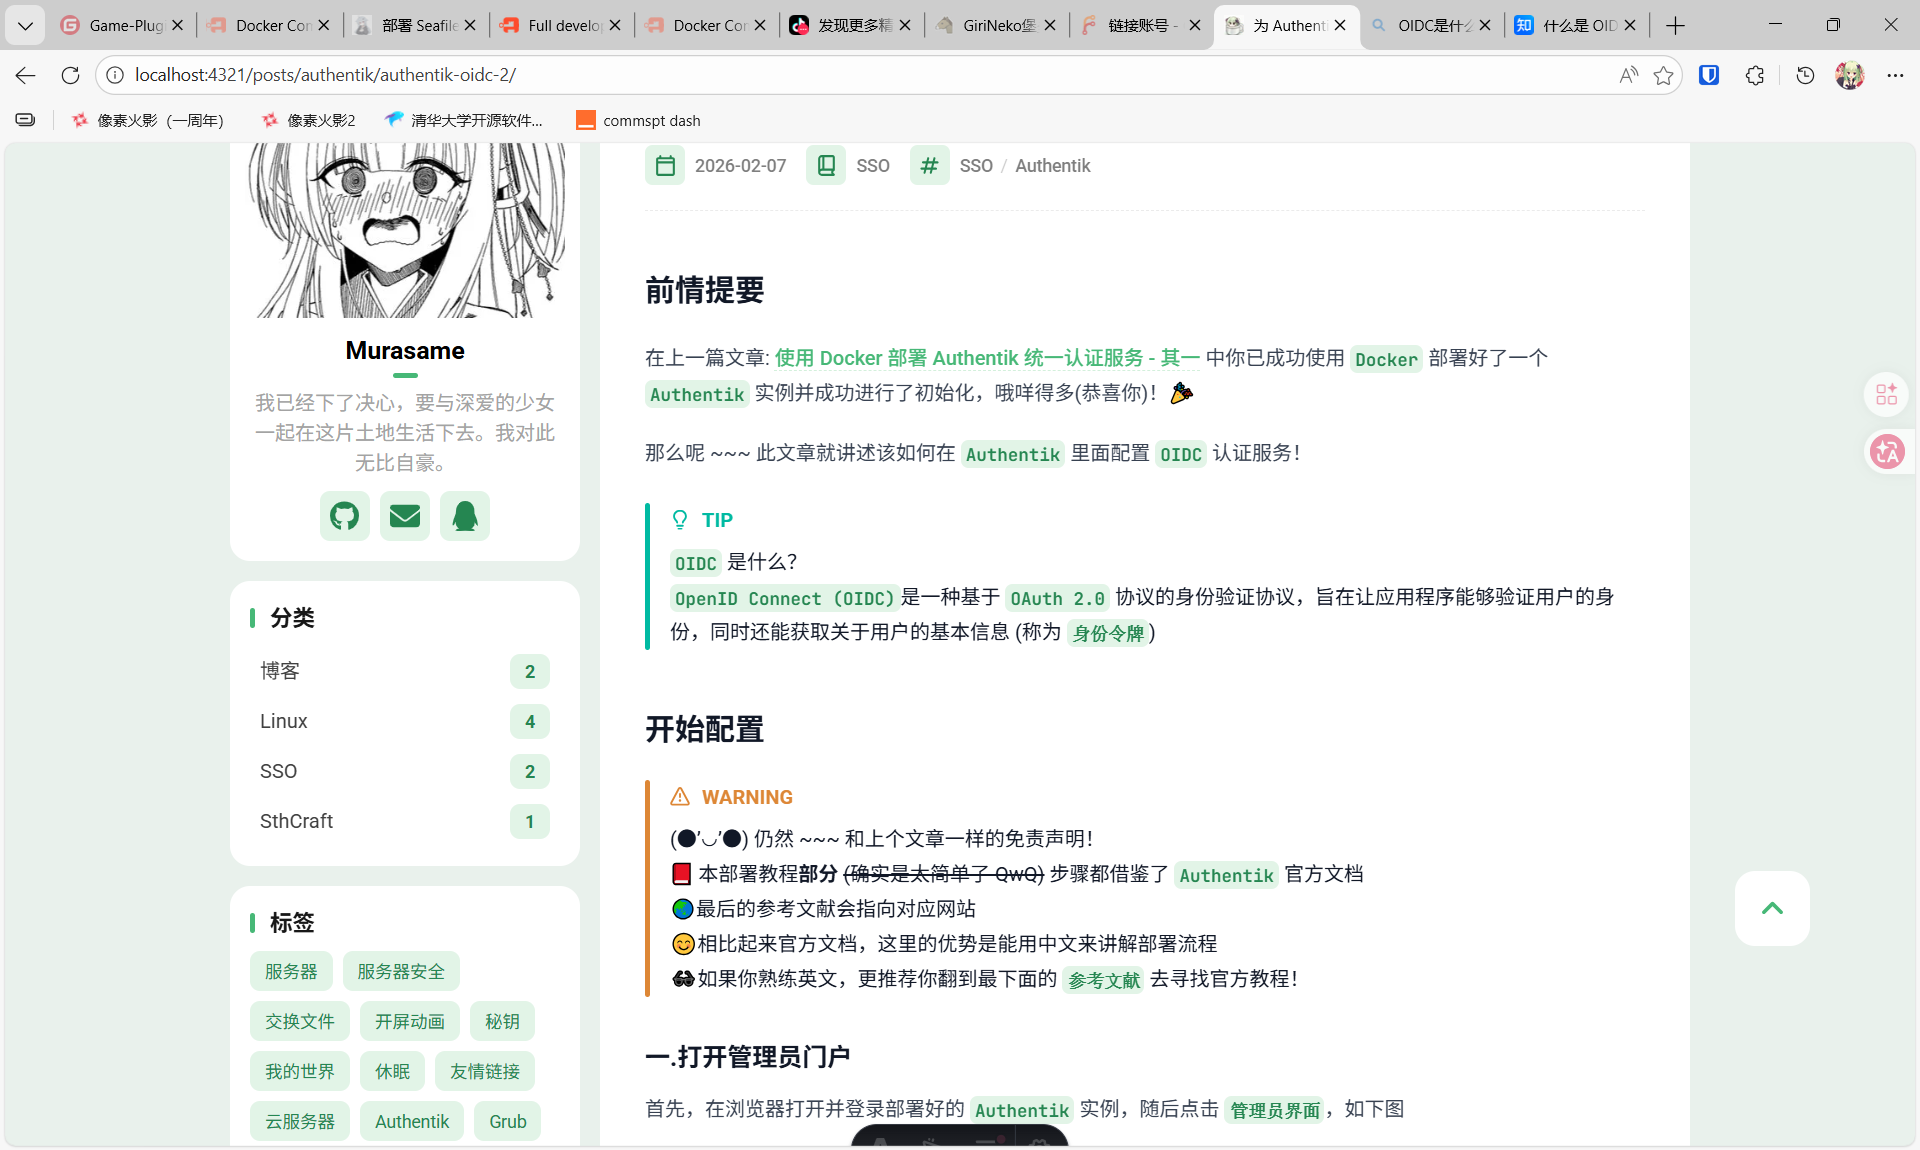
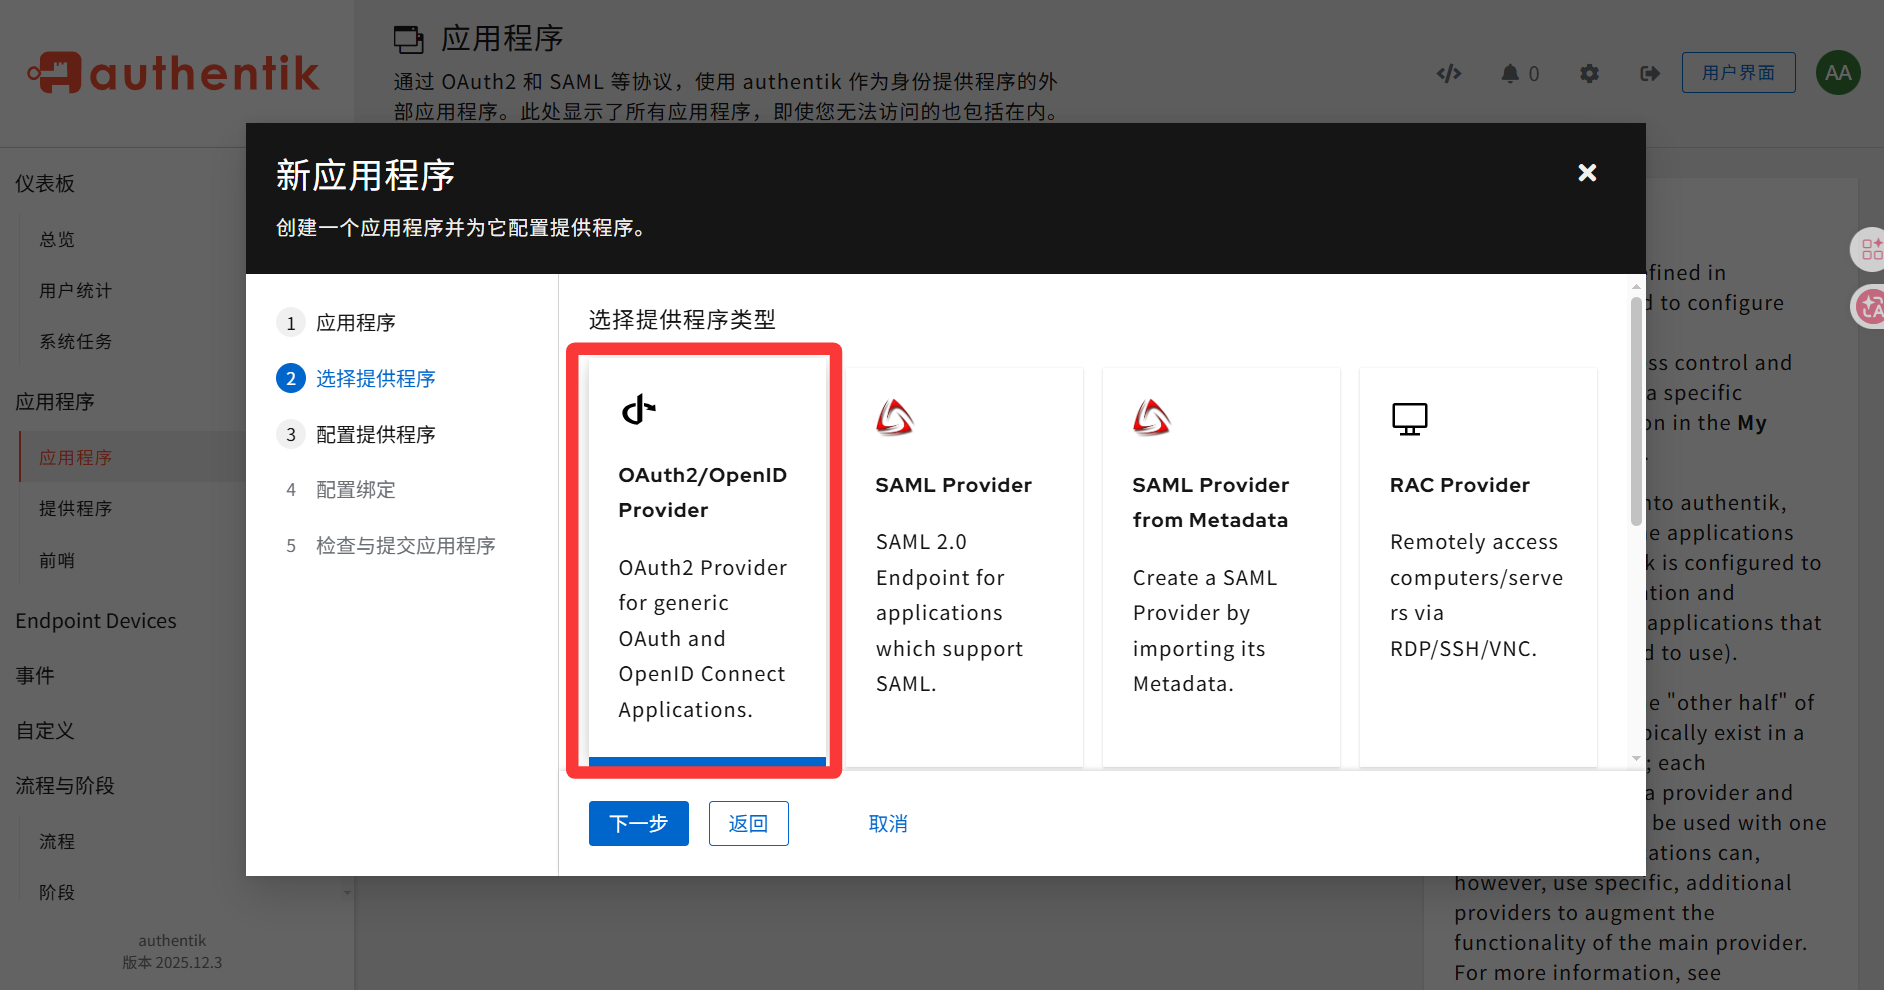
LDAP

diff --git a/src/content/posts/Authentik/Authentik-LDAP-3.md b/src/content/posts/Authentik/Authentik-LDAP-3.md
@@ -1,0 +1,168 @@
+---
+title: 为 Authentik 配置 OIDC 认证服务 - 其三
+published: 2026-02-07
+description: ''
+image: ''
+tags: [SSO, Authentik]
+category: 'SSO'
+draft: false 
+lang: 'zh_CN'
+---
+
+## 前情提要
+除了 `OIDC` 以外，也有其他服务会使用上 `LDAP` 这个服务 (比如 `Jellyfin`,`LDAP`)
+`Jellyfin` 的 `OIDC` 插件只有**官方客户端和网页**才能正常登录，若使用没有适配的第三方客户端会大事不妙😰
+
+因此，此文章就讲述该如何在 `Authentik` 里面配置 `LDAP` 认证服务！
+
+### 系列总览
+- 其一 - 使用 `Docker` 部署 `Authentik` 统一认证服务 - [点我这里跳转](/posts/authentik/authentik-docker-setup-1/)
+- 其二 - 为 `Authentik` 配置 `OIDC` 认证服务 - [点我这里跳转](/posts/authentik/authentik-oidc-2/)
+- 其三 - 为 `Authentik` 配置 `OIDC` 认证服务 - [点我这里跳转](/posts/authentik/authentik-ldap-3/)
+
+> [!TIP]
+> `LDAP` 是什么？   
+> `LDAP`（轻量级目录访问协议）是一种用于访问和管理目录服务的协议。   
+> 主要提供一种集中式的方式来存储和管理用户、设备、组织等信息，并支持快速查询和身份验证。它广泛应用于企业环境中，用于统一身份认证、访问控制以及用户管理。
+
+## 开始配置
+> [!IMPORTANT]
+> (●'◡'●) 仍然 ~~~ 还是一份免责声明！   
+> 📕 本部署教程**很多** ~~(这太难了，长官！QAQ)~~ 步骤都借鉴了 `Authentik` 官方文档   
+> 🌏最后的参考文献会指向对应网站   
+> 😊相比起来官方文档，这里的优势是能用中文来讲解部署流程   
+> 🕶如果你熟练英文，更推荐你翻到最下面的 `参考文献` 去寻找官方教程！[点我直达](#-参考文献)
+
+### 一.创建 LDAP 自定义阶段
+首先，你要去 `管理员门户` - `流程与阶段` - `阶段` 中创建**三个**新的 `阶段`
+#### 1.Password Stage
+建议命名为 `ldap-password-stage`   
+命名完后直接点击 `创建` 即可
+#### 2.Identification Stage
+建议命名为 `ldap-identification-stage`   
+**用户字段**选择 `用户名` 和 `电子邮箱`
+**密码阶段**选择我们上个步骤创建的 `ldap-password-stage`
+点击 `创建`
+#### 3.User Login Stage
+建议命名为 `ldap-userlogin-stage`
+命名完后直接点击 `创建` 即可
+
+### 二.创建 LDAP 认证流程
+`阶段` 创建完后，你需要创建一个 `流程` 绑定这些 `阶段`
+找到 `流程与阶段` - `流程` 并创建**一个**新的 `流程`
+
+#### 1.创建流程
+建议将**名称，标题，Slug**都命名为 `ldap-flow`   
+**指定**选择 `身份验证`   
+配置完后点击 `创建` 即可
+
+#### 2.绑定流程
+搜索 `ldap-flow` 点击 **蓝字超链接** 进入总览页面   
+点击 `阶段绑定`，然后找到 `Bind existing Stage` (绑定已有阶段) 并顺序绑定以下 `阶段`
+- `ldap-identification-stage` - 顺序 `10`
+- `ldap-userlogin-stage` - 顺序 `30`
+<img src="/Authentik/Ak-9.png" alt="放弃思考辣QAQ" width="600" height="600" />
+
+### 三.创建 LDAP 应用程序
+因为文本跟 `其二` 差不多，我直接搬过来了
+- ① 在管理员门户里找到 `应用程序` 分类，展开并点击里面的 `应用程序` 类别 (我没说错，里面还有一个!)   
+- ② 类别选中后，点击 `以提供程序创建` 来创建新的应用！
+<img src="/Authentik/Ak-2.png" alt="添加应用程序" width="600" height="600" />
+
+#### 1.应用程序
+在弹出的页面中填入你 `应用程序` 中的基本信息
+```bash
+# 应用名 (必须): 在你用户门户里展示的名字
+Application Name: LDAP
+# 简写名 (必须): 在链接调用上使用的 ID，只能是英文，且必须小写
+Slug: ldap
+# 组 (可选): 可以让其在用户门户里分为同类
+组(或者叫 Group):
+# 其余不修改，也可按需配置，此处省略...
+```
+配置完后点击 `下一步`
+
+#### 2.选择提供程序
+在下图显示的界面中，选择 `LDAP Provider`   
+然后点击 `下一步`
+<img src="/Authentik/Ak-10.png" alt="提供程序" width="600" height="600" />
+
+#### 3.配置提供程序
+> [!WARNING]
+> 请注意查看 `基于代码的 MFA 支持` 选项   
+> 这可能会影响到你后续使用 `LDAP` 的体验！   
+
+**绑定流程**选择 `ldap-flow`   
+<img src="/Authentik/Ak-11.png" alt="提供程序" width="600" height="600" />
+配置完后点击 `下一步`
+
+#### 4.配置绑定
+不管,直接下一步
+
+#### 5.检查应用程序和提供程序 (配置概览)
+检查你的配置无误后，点击 `提交`
+
+### 四.创建一个服务账户
+选择 `目录` - `用户`   
+点击 `新建用户`
+```bash
+# 服务账户的用户名
+用户名: ldapservice
+```
+配置完后点击 `创建用户`   
+点击名字**左边箭头**展开其选项，然后点击 `设置密码` 为其配置一个密码
+<img src="/Authentik/Ak-12.png" alt="创建用户" width="600" height="600" />
+
+### 五.将 LDAP 的搜索权限分配给服务账户
+#### 1.创建新角色
+选择 `目录` - `角色`   
+点击 `新建`
+```bash
+# 角色类别名
+名称: LDAP Search
+```
+点击**蓝标超链接** 名字展开其总览，并点击 `用户`，然后点击 `添加已有用户` 给 `ldapservice` 分配进去
+<img src="/Authentik/Ak-13.png" alt="创建角色" width="600" height="600" />
+<img src="/Authentik/Ak-14.png" alt="分配角色" width="600" height="600" />
+
+#### 2.分配角色给 LDAP 提供程序
+选择 `应用程序` - `提供程序`   
+找到 `Provider for LDAP`，点击其 **蓝字超链接** 进入总览页面   
+点击 `权限`，然后点击 `Assign Object Permission`
+<img src="/Authentik/Ak-15.png" alt="Assign Object Permission" width="600" height="600" />
+<img src="/Authentik/Ak-16.png" alt="Assign Object Permission" width="600" height="600" />
+```bash
+角色: LDAP Search
+选择 Search full LDAP directory
+```
+<img src="/Authentik/Ak-17.png" alt="配置 LDAP 权限" width="600" height="600" />
+配置完后点击 `分配`
+
+### 六.创建一个应用前哨
+*因为作者的本地网络环境发力，因此转向生产环境进行示例*   
+选择 `应用程序` - `前哨`，然后点击 `创建`   
+以下是基础配置
+```bash
+# 前哨名字
+Outpost Name: LDAP
+类型: LDAP
+```
+<img src="/Authentik/Ak-18.png" alt="配置 LDAP 权限" width="600" height="600" />
+点击 `创建`
+
+### 七.验证配置
+你可以在 `Linux` 和 `macOS` 上使用 `ldapsearch` 工具，或在 `Windows` 上使用 `dsquery` 工具来测试 `LDAP` 提供商
+```bash
+ldapsearch \
+  -x \
+  -H ldap://<LDAP outpost IP address>:389 \
+  -D 'cn=ldapservice,ou=users,DC=ldap,DC=goauthentik,DC=io' \
+  -w '<ldapuserpassword>' \
+  -b 'DC=ldap,DC=goauthentik,DC=io' \
+  '(objectClass=user)'
+```
+```bash
+dsquery * -s <LDAP outpost IP address> -u "cn=ldapservice,ou=users,DC=ldap,DC=goauthentik,DC=io" -p <ldapuserpassword> -b "DC=ldap,DC=goauthentik,DC=io" -filter "(objectClass=user)"
+```
+
+出现一大串一大排输出就证明你的配置成了！🚀

diff --git a/src/content/posts/Authentik/Authentik-Docker-Setup-1.md b/src/content/posts/Authentik/Authentik-Docker-Setup-1.md
@@ -1,6 +1,6 @@
 ---
 title: 使用 Docker 部署 Authentik 统一认证服务 - 其一
-published: 2026-02-06
+published: 2026-02-05
 description: ''
 image: ''
 tags: [SSO, Authentik]
@@ -23,6 +23,7 @@ lang: 'zh_CN'
 ### 系列总览
 - 其一 - 使用 `Docker` 部署 `Authentik` 统一认证服务 - [点我这里跳转](/posts/authentik/authentik-docker-setup-1/)
 - 其二 - 为 `Authentik` 配置 `OIDC` 认证服务 - [点我这里跳转](/posts/authentik/authentik-oidc-2/)
+- 其三 - 为 `Authentik` 配置 `OIDC` 认证服务 - [点我这里跳转](/posts/authentik/authentik-ldap-3/)
 
 ## 准备材料
 - 一台装有 `Docker` 的 `Linux 发行版` 服务器

diff --git a/src/content/posts/Authentik/Authentik-OIDC-2.md b/src/content/posts/Authentik/Authentik-OIDC-2.md
@@ -1,6 +1,6 @@
 ---
 title: 为 Authentik 配置 OIDC 认证服务 - 其二
-published: 2026-02-07
+published: 2026-02-06
 description: ''
 image: ''
 tags: [SSO, Authentik]
@@ -17,6 +17,7 @@ lang: 'zh_CN'
 ### 系列总览
 - 其一 - 使用 `Docker` 部署 `Authentik` 统一认证服务 - [点我这里跳转](/posts/authentik/authentik-docker-setup-1/)
 - 其二 - 为 `Authentik` 配置 `OIDC` 认证服务 - [点我这里跳转](/posts/authentik/authentik-oidc-2/)
+- 其三 - 为 `Authentik` 配置 `OIDC` 认证服务 - [点我这里跳转](/posts/authentik/authentik-ldap-3/)
 
 > [!TIP]
 > `OIDC` 是什么？   
